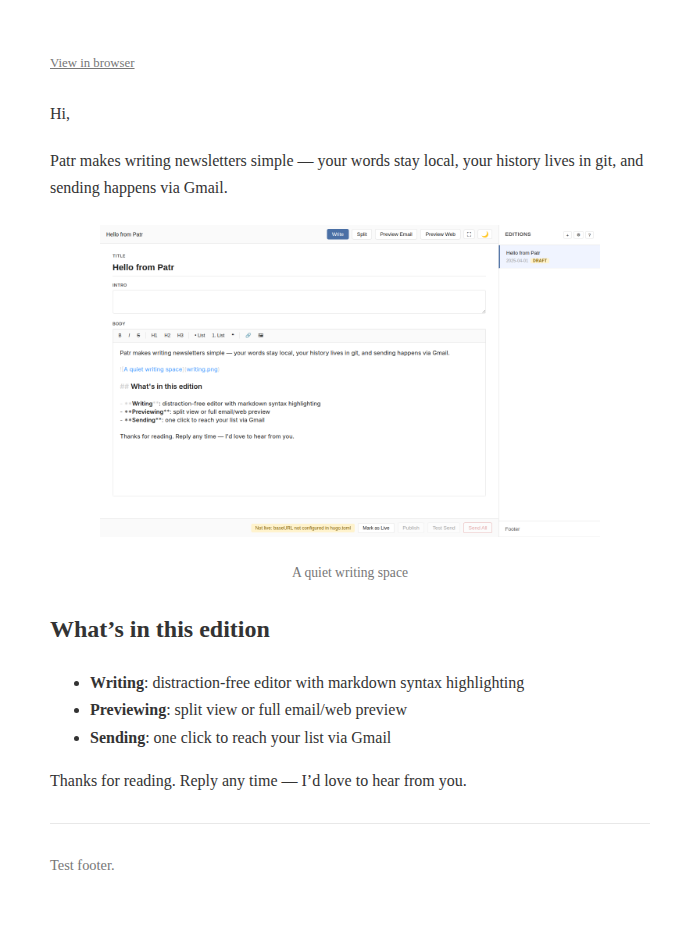
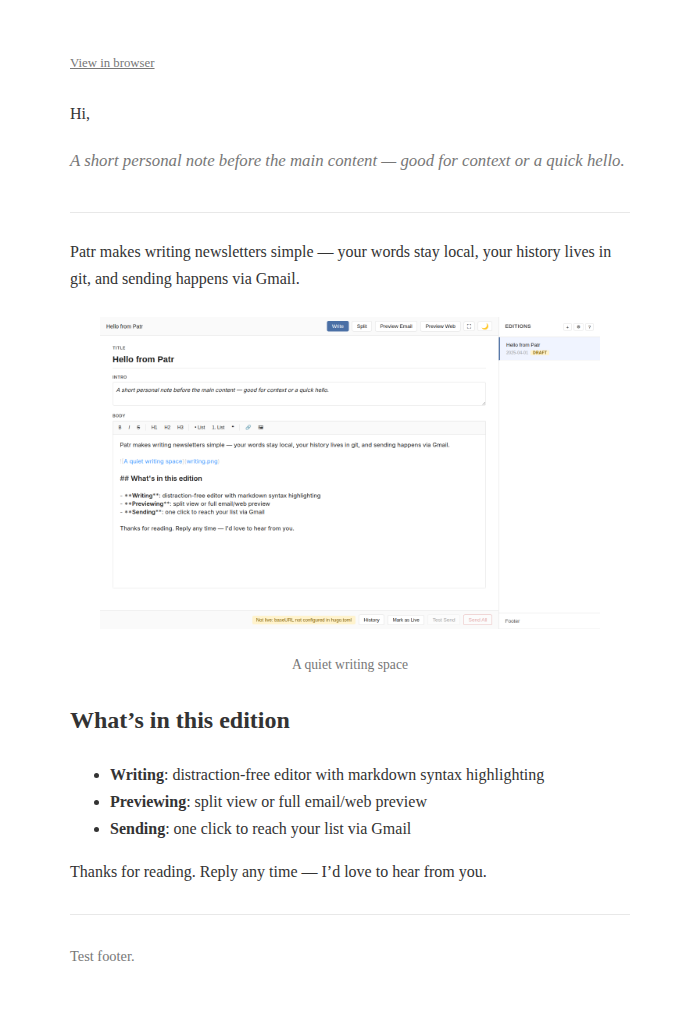
Update editor screenshot to include intro field content
Also adds intro text to the screenshot_edition fixture so the intro
field is visible in the editor screenshot.

diff --git a/tests/test_e2e.py b/tests/test_e2e.py
@@ -138,7 +138,7 @@ def screenshot_edition(repo, context, base_url):
     slug = "april-2025"
     edition_dir = state.CONTENT_DIR / slug
     (edition_dir / "index.md").write_text(
-        "---\ntitle: Hello from Patr\ndate: 2025-04-01\ndraft: true\n---\n\n"
+        "---\ntitle: Hello from Patr\ndate: 2025-04-01\ndraft: true\nintro: |\n  A short personal note before the main content — good for context or a quick hello.\n---\n\n"
         + _SCREENSHOT_BODY
     )
     yield slug
